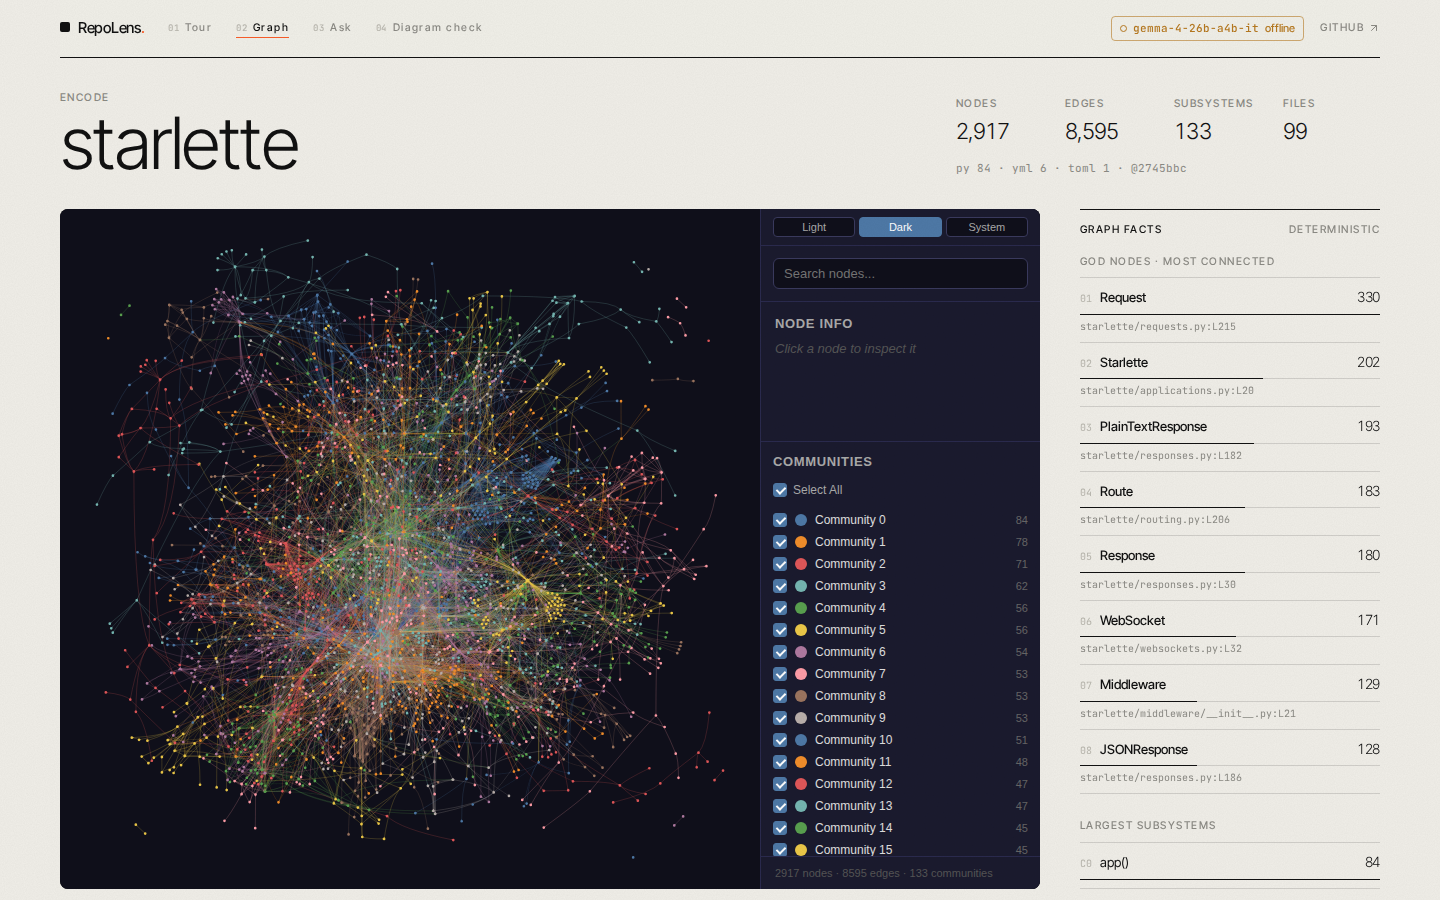
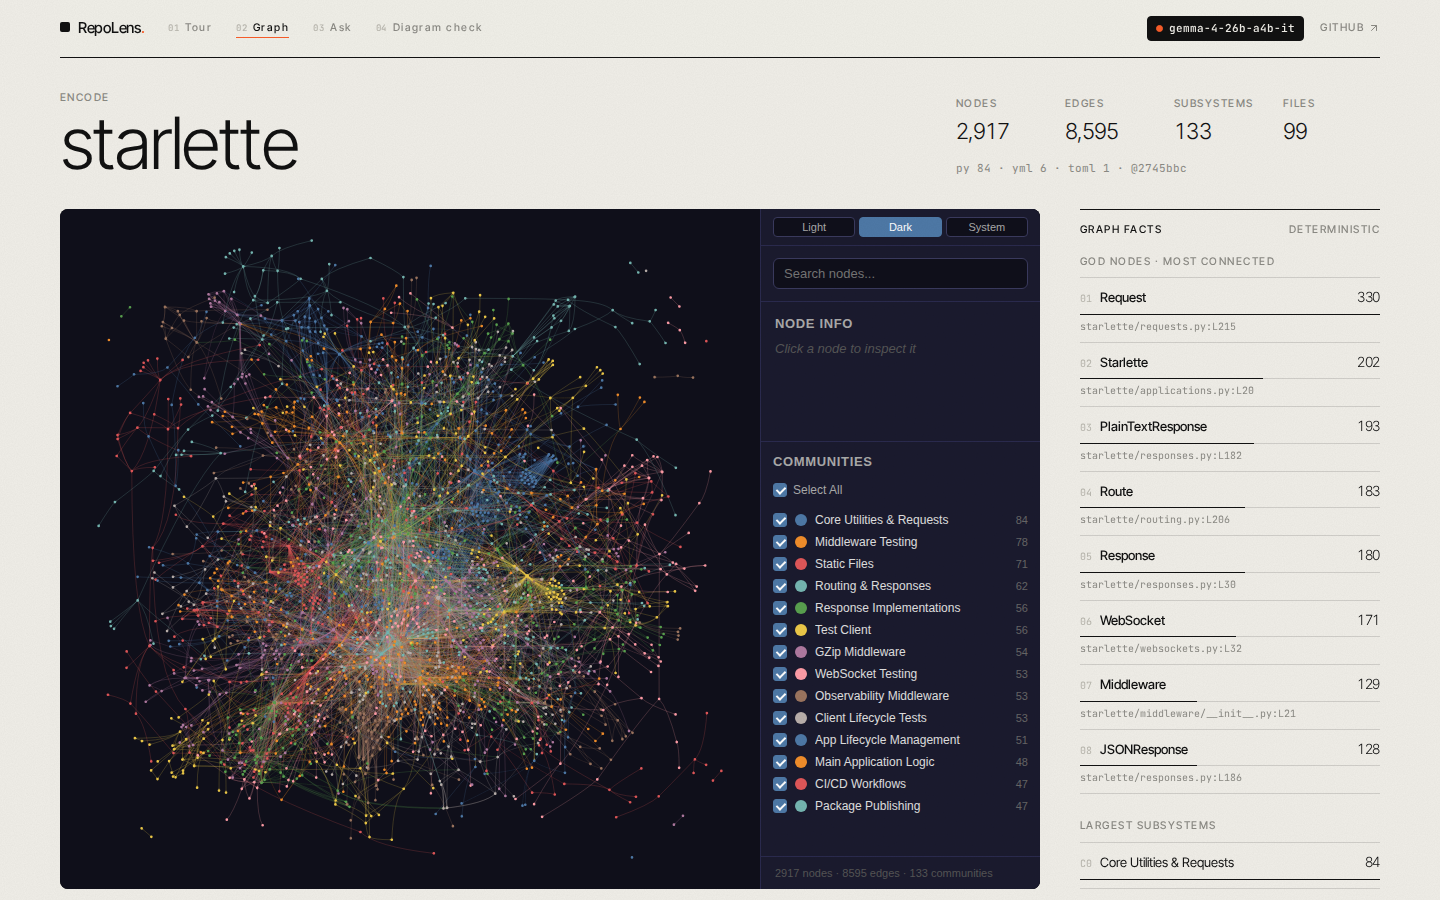
Render inline code in model prose; refresh screenshots with live Gemma 4 output

diff --git a/frontend/components/TourPanel.tsx b/frontend/components/TourPanel.tsx
@@ -3,7 +3,7 @@
 import { useEffect, useState } from "react";
 import { ArrowDown, Download, RefreshCw } from "lucide-react";
 import Markdown from "./Markdown";
-import { ActionStream, Section, type Step } from "./ui";
+import { ActionStream, Inline, Section, type Step } from "./ui";
 import { api, type Tour } from "@/lib/api";
 
 const LOADING: Step[] = [
@@ -66,7 +66,7 @@ export default function TourPanel({ repoId, onRelabelled }: { repoId: string; on
             </button>
           </div>
         </div>
-        <p className="display display-md !leading-[1.15] max-w-4xl">{tour.architecture_summary}</p>
+        <p className="display display-md !leading-[1.15] max-w-4xl"><Inline text={tour.architecture_summary} /></p>
         {tour.parse_warning && <p className="mt-3 text-xs text-warn">{tour.parse_warning}</p>}
       </section>
 
@@ -80,7 +80,7 @@ export default function TourPanel({ repoId, onRelabelled }: { repoId: string; on
                 <div className="text-[18px] font-medium tracking-tight">{s.node}</div>
                 <div className="mono mt-0.5 text-[11.5px] text-accent">{s.file}</div>
               </div>
-              <div className="text-[14px] leading-snug text-ink-2 md:pt-1">{s.why}</div>
+              <div className="text-[14px] leading-snug text-ink-2 md:pt-1"><Inline text={s.why} /></div>
             </li>
           ))}
         </ol>
@@ -96,7 +96,7 @@ export default function TourPanel({ repoId, onRelabelled }: { repoId: string; on
                   <span className="mono text-[10px] text-ink-4">C{s.community}</span>
                   <span className="text-[15px] font-medium">{s.label}</span>
                 </div>
-                <div className="ml-[34px] text-[13px] text-ink-2">{s.role}</div>
+                <div className="ml-[34px] text-[13px] text-ink-2"><Inline text={s.role} /></div>
               </li>
             ))}
           </ul>
@@ -110,7 +110,7 @@ export default function TourPanel({ repoId, onRelabelled }: { repoId: string; on
                 <span className="mono text-[11px] text-ink-3">{String(i + 1).padStart(2, "0")}</span>
                 <div className="min-w-0">
                   <div className="mono truncate text-[12.5px] text-ink">{r.file}</div>
-                  <div className="text-[13px] text-ink-2">{r.what_to_look_for}</div>
+                  <div className="text-[13px] text-ink-2"><Inline text={r.what_to_look_for} /></div>
                 </div>
               </li>
             ))}
@@ -124,7 +124,7 @@ export default function TourPanel({ repoId, onRelabelled }: { repoId: string; on
           {(tour.gotchas || []).map((g, i) => (
             <li key={i} className="row flex gap-3 py-3 text-[14px] leading-snug text-ink-2">
               <span className="mt-[7px] h-1.5 w-1.5 shrink-0 rounded-full bg-accent" />
-              {g}
+              <Inline text={g} />
             </li>
           ))}
           {!tour.gotchas?.length && <li className="row py-3 text-sm text-ink-3">None flagged.</li>}

diff --git a/frontend/components/DiagramPanel.tsx b/frontend/components/DiagramPanel.tsx
@@ -2,7 +2,7 @@
 
 import { useState } from "react";
 import { ArrowRight, X } from "lucide-react";
-import { ActionStream, BigNumber, Section, type Step } from "./ui";
+import { ActionStream, BigNumber, Inline, Section, type Step } from "./ui";
 import { api, type DiagramResult } from "@/lib/api";
 
 const STEPS: Step[] = [
@@ -129,7 +129,7 @@ export default function DiagramPanel({ repoId }: { repoId: string }) {
                 <span>Drift summary</span>
                 <span className="mono normal-case tracking-normal">{res.model}</span>
               </div>
-              <p className="text-[18px] font-light leading-snug tracking-tight">{res.drift_summary}</p>
+              <p className="text-[18px] font-light leading-snug tracking-tight"><Inline text={res.drift_summary} /></p>
             </div>
           </section>
 
@@ -150,7 +150,7 @@ export default function DiagramPanel({ repoId }: { repoId: string }) {
                         <div className="mono mt-0.5 truncate text-[11.5px] text-ink-3">→ {c.matched_node}</div>
                       ) : null}
                     </div>
-                    <div className="text-[13.5px] text-ink-2">{c.note}</div>
+                    <div className="text-[13.5px] text-ink-2"><Inline text={c.note || ""} /></div>
                     <span className={`micro md:justify-self-end ${ok ? "!text-ok" : "!text-bad"}`}>
                       {ok ? (c.verified ? "verified" : "found") : "not in code"}
                     </span>

diff --git a/frontend/components/ui.tsx b/frontend/components/ui.tsx
@@ -99,6 +99,24 @@ export function Section({ index, title, right, children, className = "" }: { ind
   );
 }
 
+/* ---------------- inline `code` rendering for model prose ---------------- */
+export function Inline({ text, className = "" }: { text: string; className?: string }) {
+  const parts = text.split(/(`[^`]+`)/g);
+  return (
+    <span className={className}>
+      {parts.map((p, i) =>
+        p.startsWith("`") && p.endsWith("`") ? (
+          <code key={i} className="mono rounded-[3px] bg-paper-2 px-1 text-[0.72em] font-medium text-ink">
+            {p.slice(1, -1)}
+          </code>
+        ) : (
+          <span key={i}>{p}</span>
+        ),
+      )}
+    </span>
+  );
+}
+
 export function Skeleton({ lines = 3 }: { lines?: number }) {
   return (
     <div className="space-y-3">
